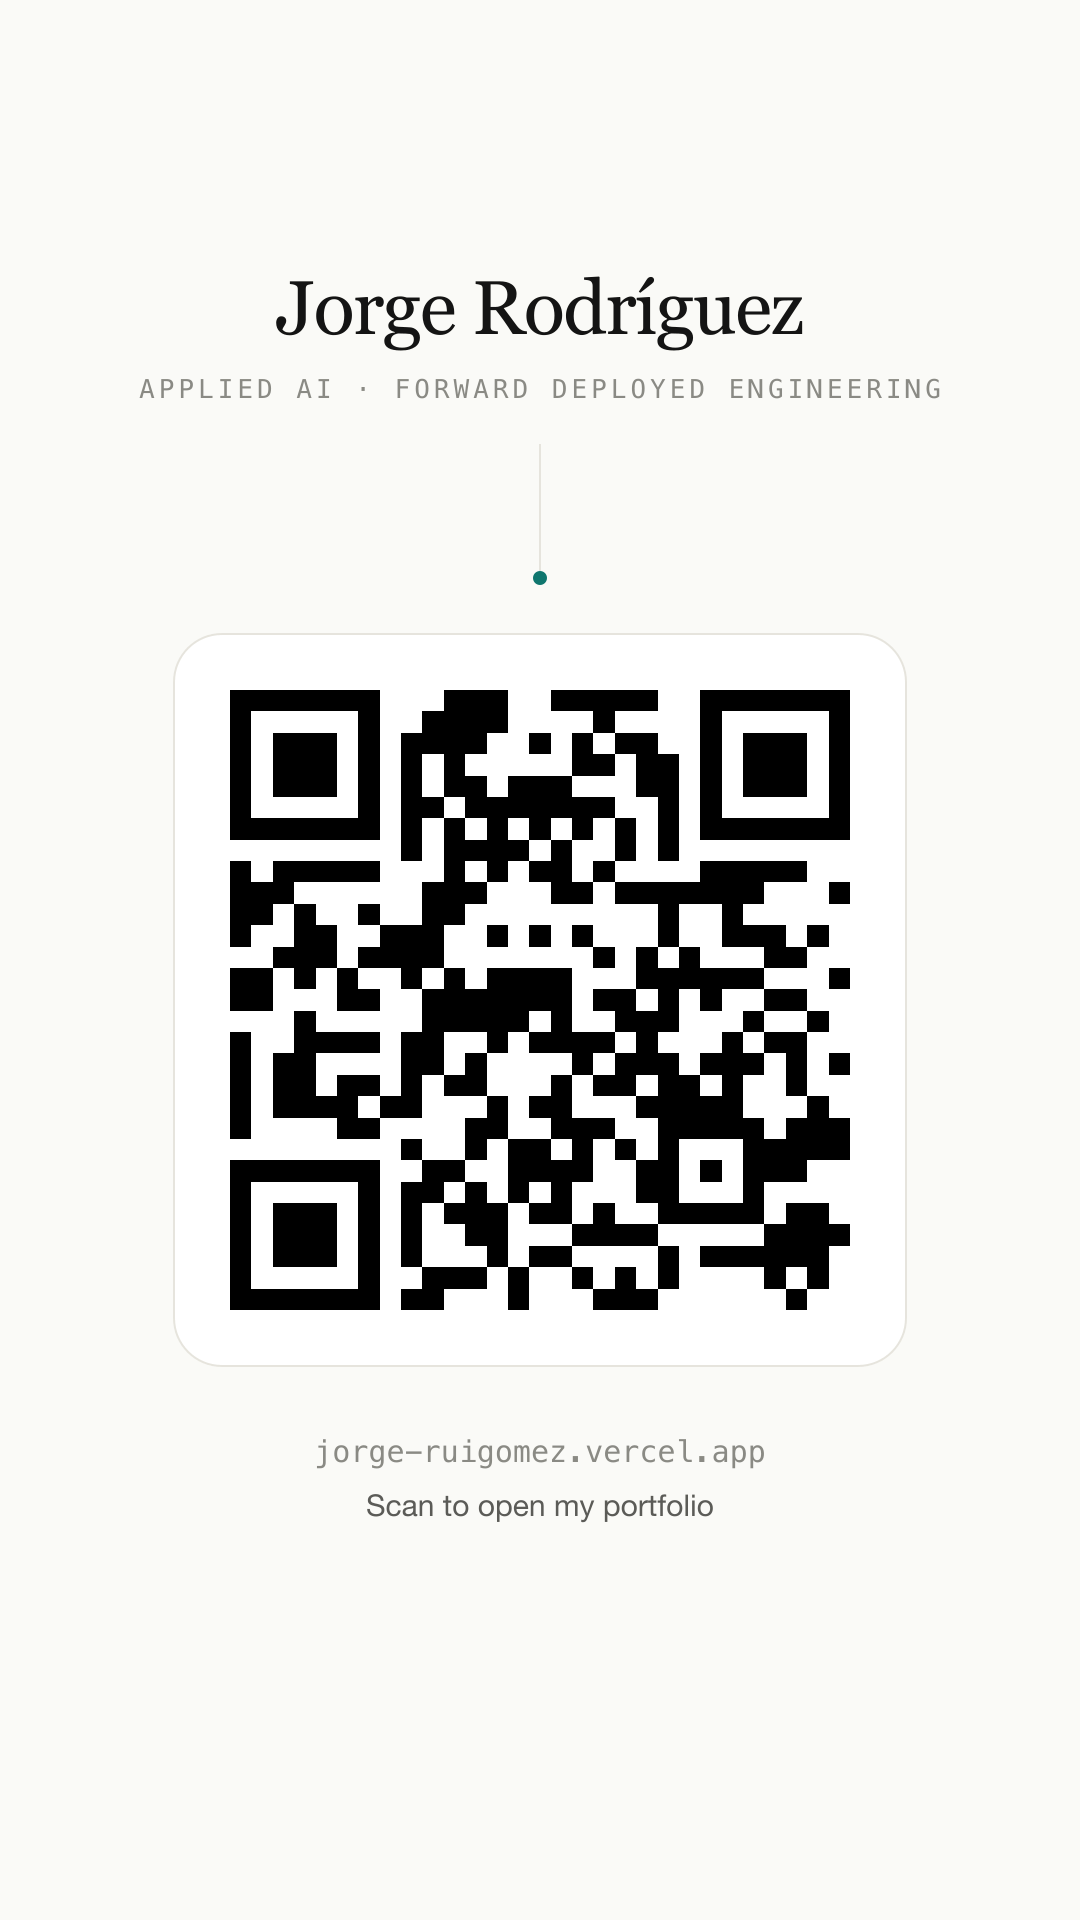
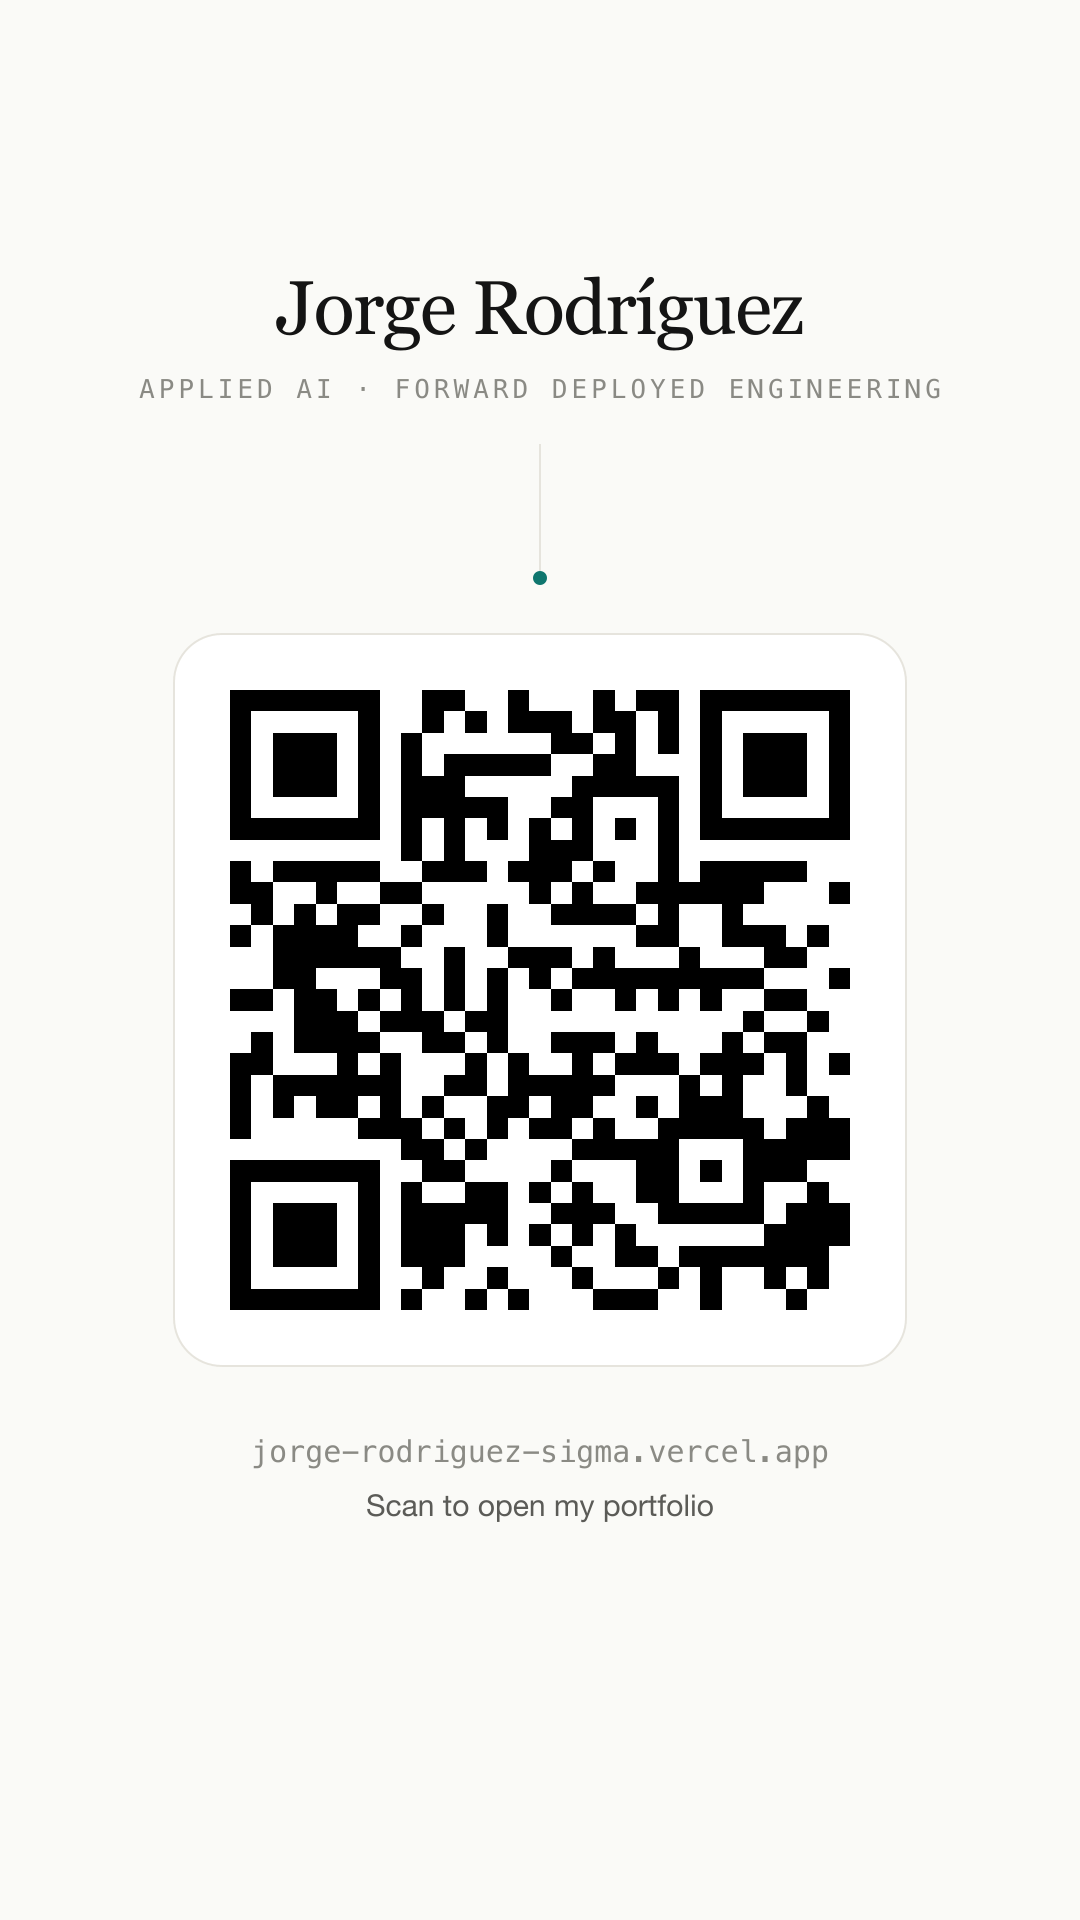
Bake in deploy URL, fix verify:qr argument parsing

diff --git a/index.html b/index.html
@@ -15,7 +15,7 @@
     <meta property="og:site_name" content="Jorge Rodríguez Ruigómez" />
     <meta property="og:title" content="Jorge Rodríguez Ruigómez — Applied AI Engineer" />
     <meta property="og:description" content="I turn AI capabilities into software people actually use." />
-    <meta property="og:image" content="/og.png" />
+    <meta property="og:image" content="https://jorge-rodriguez-sigma.vercel.app/og.png" />
     <meta property="og:image:type" content="image/png" />
     <meta property="og:image:width" content="1200" />
     <meta property="og:image:height" content="630" />
@@ -24,7 +24,7 @@
     <meta name="twitter:card" content="summary_large_image" />
     <meta name="twitter:title" content="Jorge Rodríguez Ruigómez — Applied AI Engineer" />
     <meta name="twitter:description" content="I turn AI capabilities into software people actually use." />
-    <meta name="twitter:image" content="/og.png" />
+    <meta name="twitter:image" content="https://jorge-rodriguez-sigma.vercel.app/og.png" />
     <meta name="twitter:image:alt" content="Jorge Rodríguez Ruigómez — Applied AI · Forward Deployed Engineering" />
   </head>
   <body>
